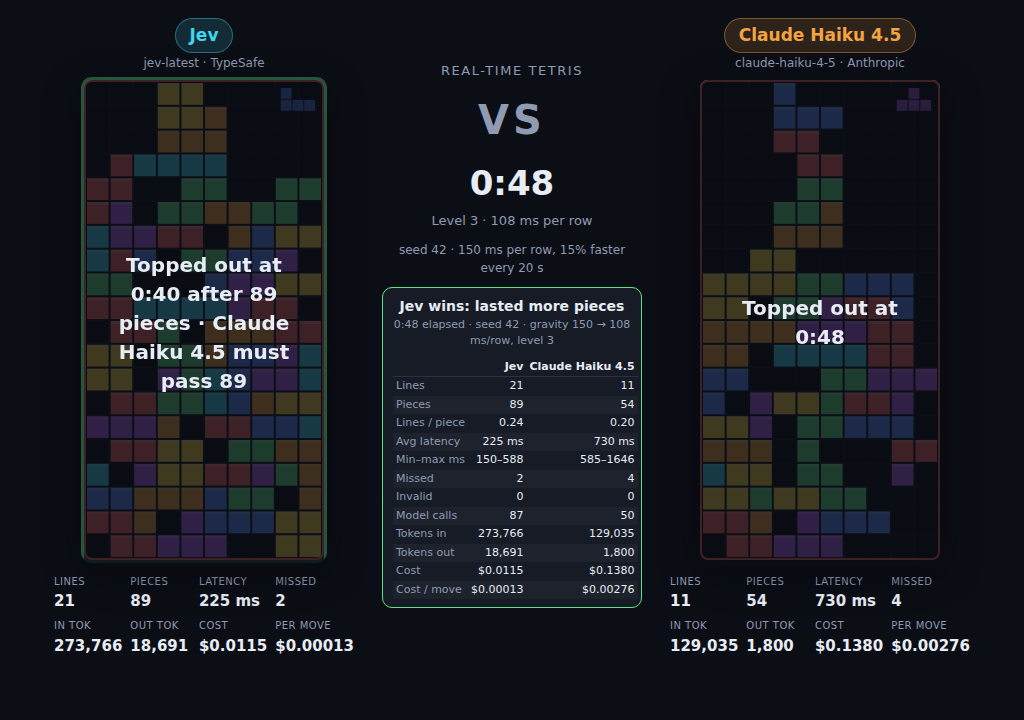
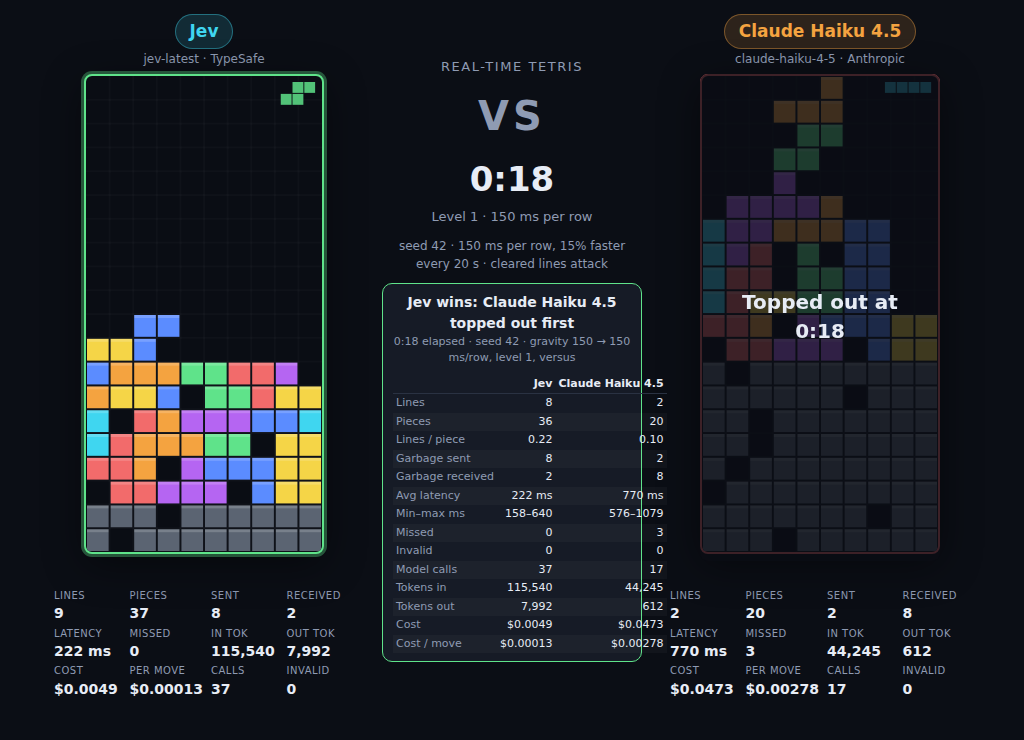
Battle: versus mode with garbage attacks
Every cleared line becomes a garbage row (full except one gap) queued
for the opponent and inserted under their stack when their piece locks;
an overflow at the top ends their game. In versus mode the first to top
out loses. Adds sent/received stats, an incoming indicator, a hit flash,
and an engine test for garbage rows.

Claude-Session: https://claude.ai/code/session_016YCduUQvKvzKhRYFEpSHCa

Changed region(s): [[0.375, 0.0, 0.9688, 0.9472], [0.0312, 0.0, 0.3438, 0.9472], [0.4375, 0.0611, 0.5625, 0.1833]]

diff --git a/public/battle.js b/public/battle.js
@@ -25,6 +25,8 @@ import {
   dropY,
   makeBag,
   seededRandom,
+  addGarbage,
+  GARBAGE,
   scoreForLines,
   describePlacement,
 } from "./tetris.js";
@@ -52,6 +54,7 @@ const ui = {
   seed: $("seed"),
   limit: $("limit"),
   lockstep: $("lockstep"),
+  garbage: $("garbage"),
   start: $("start"),
   stop: $("stop"),
   clock: $("clock"),
@@ -75,11 +78,15 @@ function makeSide(id, player) {
     ctx: canvas.getContext("2d"),
     cell: canvas.width / WIDTH,
     overlay: $(`overlay${id}`),
+    incomingEl: $(`incoming${id}`),
     statsEl: $(`stats${id}`),
     moveEl: $(`move${id}`),
     section: $(id === "L" ? "left" : "right"),
     board: emptyBoard(),
     random: null,
+    garbageRandom: null,
+    pendingGarbage: 0,
+    opponent: null,
     bag: [],
     current: null,
     next: null,
@@ -96,7 +103,7 @@ function makeSide(id, player) {
 }
 
 function freshStats() {
-  return { calls: 0, latency: 0, minLatency: Infinity, maxLatency: 0, missed: 0, invalid: 0, errors: 0, inputTokens: 0, outputTokens: 0, cost: 0, clears: [0, 0, 0, 0, 0] };
+  return { calls: 0, latency: 0, minLatency: Infinity, maxLatency: 0, missed: 0, invalid: 0, errors: 0, inputTokens: 0, outputTokens: 0, cost: 0, sent: 0, received: 0, clears: [0, 0, 0, 0, 0] };
 }
 
 function recordDecision(side, decision) {
@@ -140,6 +147,8 @@ function nextPiece(side) {
 function resetSide(side, seed) {
   side.board = emptyBoard();
   side.random = seededRandom(seed);
+  side.garbageRandom = seededRandom(seed * 7919 + (side.id === "L" ? 1 : 2));
+  side.pendingGarbage = 0;
   side.bag = [];
   side.current = nextPiece(side);
   side.next = nextPiece(side);
@@ -153,7 +162,8 @@ function resetSide(side, seed) {
   side.lostAt = null;
   side.stats = freshStats();
   side.overlay.classList.add("hidden");
-  side.section.classList.remove("winner", "loser");
+  side.section.classList.remove("winner", "loser", "hit");
+  side.incomingEl.textContent = "";
   side.moveEl.textContent = "Ready.";
   drawSide(side);
   renderSideStats(side);
@@ -195,7 +205,7 @@ function drawSide(side) {
   for (let y = 0; y < HEIGHT; y++) {
     for (let x = 0; x < WIDTH; x++) {
       const c = side.board[y][x];
-      if (c) paint(x, y, side.flash.includes(y) ? "#ffffff" : PIECE_COLORS[c]);
+      if (c) paint(x, y, side.flash.includes(y) ? "#ffffff" : c === GARBAGE ? "#5b6472" : PIECE_COLORS[c]);
     }
   }
   if (side.target) for (const [x, y] of side.target) paint(x, y, "#ffffff", 0.7, true);
@@ -230,23 +240,30 @@ function renderSideStats(side) {
     ? [
         ["Lines", side.lines],
         ["Pieces", side.pieces],
+        ["Sent", s.sent],
+        ["Received", s.received],
         ["Latency", avg],
         ["Missed", s.missed],
         ["In tok", s.inputTokens.toLocaleString()],
         ["Out tok", s.outputTokens.toLocaleString()],
         ["Cost", fmtUsd(s.cost)],
         ["Per move", s.calls ? fmtUsd(s.cost / s.calls, 5) : "–"],
+        ["Calls", s.calls],
+        ["Invalid", s.invalid + s.errors],
       ]
     : [
         ["Lines", side.lines],
         ["Pieces", side.pieces],
         ["Score", side.score],
+        ["Sent", s.sent],
+        ["Received", s.received],
         ["Avg latency", avg],
         ["Missed", s.missed],
         ["Invalid", s.invalid + s.errors],
         ["Tokens in", s.inputTokens.toLocaleString()],
         ["Tokens out", s.outputTokens.toLocaleString()],
         ["Cost", fmtUsd(s.cost)],
+        ["Per move", s.calls ? fmtUsd(s.cost / s.calls, 5) : "–"],
       ];
   side.statsEl.innerHTML = rows
     .map(([label, value]) => `<div class="stat"><span class="label">${label}</span><span>${value}</span></div>`)
@@ -264,6 +281,8 @@ function comparisonTable(L, R) {
       ${row("Lines", (s) => s.lines)}
       ${row("Pieces", (s) => s.pieces)}
       ${row("Lines / piece", (s) => (s.pieces ? (s.lines / s.pieces).toFixed(2) : "–"))}
+      ${row("Garbage sent", (s) => s.stats.sent)}
+      ${row("Garbage received", (s) => s.stats.received)}
       ${row("Avg latency", avg)}
       ${row("Min–max ms", range)}
       ${row("Missed", (s) => s.stats.missed)}
@@ -295,8 +314,41 @@ const sleep = (ms) => new Promise((r) => setTimeout(r, ms));
 
 // ---- One player's real-time loop ------------------------------------------------------
 
+function renderIncoming(side) {
+  side.incomingEl.textContent = side.pendingGarbage > 0 ? `▼ ${side.pendingGarbage} incoming` : "";
+}
+
+function sendGarbage(from, count) {
+  const to = from.opponent;
+  if (!to || to.over || count <= 0) return;
+  to.pendingGarbage += count;
+  from.stats.sent += count;
+  renderIncoming(to);
+}
+
+// Incoming garbage lands when the receiver's piece has locked, before the next spawn.
+function applyGarbage(side) {
+  const n = side.pendingGarbage;
+  if (n <= 0) return false;
+  side.pendingGarbage = 0;
+  const gap = Math.floor(side.garbageRandom() * WIDTH);
+  const { board, overflow } = addGarbage(side.board, n, gap);
+  side.board = board;
+  side.stats.received += n;
+  renderIncoming(side);
+  side.section.classList.add("hit");
+  setTimeout(() => side.section.classList.remove("hit"), 350);
+  drawSide(side);
+  renderSideStats(side);
+  return overflow;
+}
+
 async function runSide(side, { signal, lockstep }) {
   while (!side.over && !signal.aborted) {
+    if (applyGarbage(side)) {
+      topOut(side);
+      return;
+    }
     const piece = side.current;
     const spawn = PIECES[piece][0];
     if (collides(side.board, spawn.cells, SPAWN_X, 0)) {
@@ -422,6 +474,7 @@ async function runSide(side, { signal, lockstep }) {
     side.board = board;
     side.lines += cleared;
     side.stats.clears[cleared] += 1;
+    if (battle?.garbage && cleared > 0) sendGarbage(side, cleared);
     side.score += scoreForLines(cleared, Math.floor(side.lines / 10) + 1);
     side.pieces += 1;
     side.current = side.next;
@@ -459,6 +512,11 @@ function checkEnd(timeUp = false) {
     // clock in both modes. The survivor wins once it passes the loser's count.
     const loser = L.over ? L : R;
     const survivor = loser === L ? R : L;
+    if (battle.garbage) {
+      // Versus: the boards are coupled by garbage, so the first to top out loses.
+      finish(survivor, loser, `${survivor.player.name} wins: ${loser.player.name} topped out first`);
+      return;
+    }
     if (survivor.pieces > loser.pieces) {
       finish(survivor, loser, `${survivor.player.name} wins: survived past ${loser.pieces} pieces`);
     } else {
@@ -496,9 +554,9 @@ function finish(winner, loser, reason) {
     winner.section.classList.add("winner");
     loser?.section.classList.add("loser");
   }
-  const gravityNote = battle.lockstep
-    ? "lockstep, no gravity"
-    : `gravity ${battle.gravityMs} → ${gravityNow()} ms/row, level ${currentLevel()}`;
+  const gravityNote =
+    (battle.lockstep ? "lockstep, no gravity" : `gravity ${battle.gravityMs} → ${gravityNow()} ms/row, level ${currentLevel()}`) +
+    (battle.garbage ? ", versus" : "");
   ui.result.innerHTML = `${reason}<small>${formatClock(elapsed)} elapsed · seed ${ui.seed.value} · ${gravityNote}</small>${comparisonTable(L, R)}`;
   ui.result.classList.remove("hidden");
   ui.start.disabled = false;
@@ -527,15 +585,18 @@ async function startBattle() {
   const gravityMs = Number(ui.gravity.value);
   const speedup = SPEEDUPS[ui.speedup.value] || SPEEDUPS.normal;
   const lockstep = ui.lockstep.checked;
+  const garbage = ui.garbage.checked;
   const limitMs = Math.max(1, Number(ui.limit.value) || 5) * 60_000;
   sides = [makeSide("L", createJevPlayer(jevKey)), makeSide("R", createHaikuPlayer(haikuKey))];
+  sides[0].opponent = sides[1];
+  sides[1].opponent = sides[0];
   for (const s of sides) resetSide(s, seed);
   ui.result.classList.add("hidden");
   ui.start.disabled = true;
   ui.stop.disabled = false;
-  ui.matchInfo.textContent = lockstep
-    ? `seed ${seed} · lockstep, no gravity`
-    : `seed ${seed} · ${gravityMs} ms per row, ${describeSpeedup(ui.speedup.value)}`;
+  ui.matchInfo.textContent =
+    (lockstep ? `seed ${seed} · lockstep, no gravity` : `seed ${seed} · ${gravityMs} ms per row, ${describeSpeedup(ui.speedup.value)}`) +
+    (garbage ? " · cleared lines attack" : "");
   if (PRESENT) {
     document.body.classList.add("running");
     for (const n of [3, 2, 1]) {
@@ -544,7 +605,7 @@ async function startBattle() {
     }
   }
   const abort = new AbortController();
-  battle = { startedAt: performance.now(), abort, timer: null, limitMs, gravityMs, speedup, lockstep };
+  battle = { startedAt: performance.now(), abort, timer: null, limitMs, gravityMs, speedup, lockstep, garbage };
   renderLevel();
   battle.timer = setInterval(() => {
     if (!battle) return;

diff --git a/public/battle.css b/public/battle.css
@@ -23,6 +23,8 @@ canvas.board {
 .player.winner canvas.board { border-color: var(--good); box-shadow: 0 0 0 3px rgba(95, 227, 138, 0.35), 0 10px 40px rgba(0, 0, 0, 0.45); }
 .player.loser canvas.board { border-color: var(--bad); }
 
+.incoming { min-height: 18px; font-size: 12px; color: var(--bad); font-weight: 600; text-align: center; }
+.player.hit canvas.board { border-color: var(--bad); box-shadow: 0 0 0 3px rgba(242, 107, 107, 0.45), 0 10px 40px rgba(0, 0, 0, 0.45); }
 .pstats { display: grid; grid-template-columns: repeat(3, 1fr); gap: 8px 14px; width: 300px; }
 .pstats .stat span:not(.label) { font-size: 16px; }
 .pmove { width: 300px; font-size: 13px; min-height: 36px; text-align: center; }
@@ -66,7 +68,7 @@ canvas.board {
 /* ---- Presentation mode (?present): boards, clock, result. Nothing else. ---- */
 body.present { background: #0b0e15; min-height: 0; overflow: hidden; }
 body.present .top, body.present .foot, body.present #setup-card, body.present #rules-card, body.present .pmove { display: none; }
-body.present .arena { grid-template-columns: 300px 260px 300px; justify-content: center; gap: 28px; padding: 18px 24px 16px; }
+body.present .arena { grid-template-columns: 300px 260px 300px; justify-content: center; gap: 28px; padding: 14px 24px 12px; }
 body.present .center { gap: 10px; padding-top: 44px; }
 body.present .present-title { display: block; text-align: center; font-size: 13px; letter-spacing: 0.12em; text-transform: uppercase; color: var(--muted); }
 .present-title { display: none; }
@@ -81,9 +83,11 @@ body.present .result { font-size: 14px; padding: 8px 10px; }
 body.present .result small { font-size: 11px; }
 body.present .compare { font-size: 11px; }
 body.present .compare th, body.present .compare td { padding: 1px 3px; }
-body.present .pstats { grid-template-columns: repeat(4, 1fr); gap: 6px 8px; }
+body.present .pstats { grid-template-columns: repeat(4, 1fr); gap: 3px 8px; }
+body.present .pstats .stat { gap: 0; }
 body.present .pstats .stat .label { font-size: 10px; }
-body.present .pstats .stat span:not(.label) { font-size: 15px; }
+body.present .pstats .stat span:not(.label) { font-size: 14px; }
 body.present .badge { font-size: 17px; }
-body.present .player { gap: 8px; }
+body.present .player { gap: 6px; }
+body.present .incoming { min-height: 16px; font-size: 12px; }
 body.present .error { font-size: 12px; }

diff --git a/public/battle.html b/public/battle.html
@@ -16,7 +16,8 @@
       <p class="sub">
         Same piece sequence, same options, same clock. Pieces keep falling while each model thinks,
         and gravity gets stronger as the minutes pass; a piece that lands before its answer arrives
-        locks where it is. Top out, and the other side wins by surviving past your piece count.
+        locks where it is. Every line you clear lands on your opponent's board as a garbage row.
+        Whoever tops out first loses.
         <a href="./">Single-player demo</a>
       </p>
     </div>
@@ -32,6 +33,7 @@
         <canvas class="board" id="boardL" width="240" height="480" aria-label="Jev's board"></canvas>
         <div class="overlay hidden" id="overlayL"></div>
       </div>
+      <div class="incoming" id="incomingL"></div>
       <div class="pstats" id="statsL"></div>
       <div class="pmove muted" id="moveL">Waiting to start.</div>
     </section>
@@ -58,6 +60,7 @@
         </label>
         <label class="field">Seed <input id="seed" type="number" value="42" /></label>
         <label class="field">Time limit (min) <input id="limit" type="number" min="1" max="30" value="5" /></label>
+        <label class="field check"><input id="garbage" type="checkbox" checked /> Versus: cleared lines attack the opponent</label>
         <label class="field check"><input id="lockstep" type="checkbox" /> Wait for answers (no gravity)</label>
       </div>
       <div class="vs">VS</div>
@@ -81,6 +84,7 @@
         <canvas class="board" id="boardR" width="240" height="480" aria-label="Claude Haiku's board"></canvas>
         <div class="overlay hidden" id="overlayR"></div>
       </div>
+      <div class="incoming" id="incomingR"></div>
       <div class="pstats" id="statsR"></div>
       <div class="pmove muted" id="moveR">Waiting to start.</div>
     </section>

diff --git a/public/tetris.js b/public/tetris.js
@@ -296,6 +296,26 @@ export function boardToText(board) {
   return board.map((row) => row.map((c) => (c ? "#" : ".")).join(""));
 }
 
+// ---- Garbage (versus mode) --------------------------------------------------------
+// Pushes `count` garbage rows in from the bottom, each full except one gap.
+// Returns { board, overflow }: overflow is true when the shift pushed filled
+// cells out of the top, which ends the receiving player's game.
+export const GARBAGE = "G";
+
+export function addGarbage(board, count, gapColumn) {
+  if (count <= 0) return { board, overflow: false };
+  const n = Math.min(count, HEIGHT);
+  let overflow = false;
+  for (let y = 0; y < n; y++) if (board[y].some((c) => c)) overflow = true;
+  const rows = board.slice(n).map((r) => r.slice());
+  for (let i = 0; i < n; i++) {
+    const row = new Array(WIDTH).fill(GARBAGE);
+    row[gapColumn] = null;
+    rows.push(row);
+  }
+  return { board: rows, overflow };
+}
+
 // ---- Random bag ------------------------------------------------------------
 
 // Small seeded PRNG (mulberry32) so two players can share one piece sequence.

diff --git a/README.md b/README.md
@@ -68,9 +68,16 @@ holes more than the heuristic does, so the stack gets rough over time. The `prio
 options and one shared clock. Pieces keep falling while each model thinks; a piece that lands before
 its answer arrives locks where it is. Gravity gets stronger over time on a schedule both sides share
 (default: 15% faster every 20 seconds, starting at 150 ms per row, floor 40 ms), so the decision
-deadline tightens as the battle goes on and the level is shown under the clock. First to top out
-loses. The "wait for answers" toggle removes gravity so only decision quality is compared, and there
-the winner is whoever survives more pieces.
+deadline tightens as the battle goes on and the level is shown under the clock.
+
+**Versus (default):** every line a player clears becomes a garbage row (full except one gap) queued
+for the opponent and inserted at the bottom of their board when their current piece locks. If that
+push shoves the stack out of the top, they are out. Whoever tops out first loses.
+
+With the versus box unticked the boards are independent and, since a faster player cycles through
+more pieces per minute, the survivor must outlast the loser's piece count to win. The "wait for
+answers" toggle removes gravity so only decision quality is compared. Append `?present` to the URL
+for a stripped-down layout meant for recordings.
 
 ![Battle](docs/battle.png)
 
@@ -83,6 +90,7 @@ Observed results on seed 42 (one run each; Jev is not fully deterministic betwee
 
 | Mode | Result | Jev | Claude Haiku 4.5 |
 | --- | --- | --- | --- |
+| Versus, 150 ms/row rising 15% every 20 s | Jev wins at 0:18: Haiku topped out first | 8 lines, 36 pieces, sent 8 garbage, 222 ms/move, 0 missed, $0.005 | 2 lines, 20 pieces, sent 2 garbage, 770 ms/move, 3 missed, $0.047 |
 | Real time, 150 ms/row rising 15% every 20 s | Jev wins: out at 97 pieces, Haiku out at 61 | 25 lines, 97 pieces, 243 ms/move, 2 missed, $0.013 | 15 lines, 61 pieces, 721 ms/move, 6 missed, $0.155 |
 | Real time, constant 120 ms/row | Jev wins: Haiku out at 41 pieces, Jev alive at 79 | 26 lines, 79 pieces, 236 ms/move, 0 missed, $0.010 | 7 lines, 41 pieces, 792 ms/move, 7 missed, $0.094 |
 | Lockstep (no gravity) | Jev wins, survived more pieces | 52 lines, 167 pieces, 219 ms/move, $0.022 | 28 lines, 106 pieces, 832 ms/move, $0.301 |
